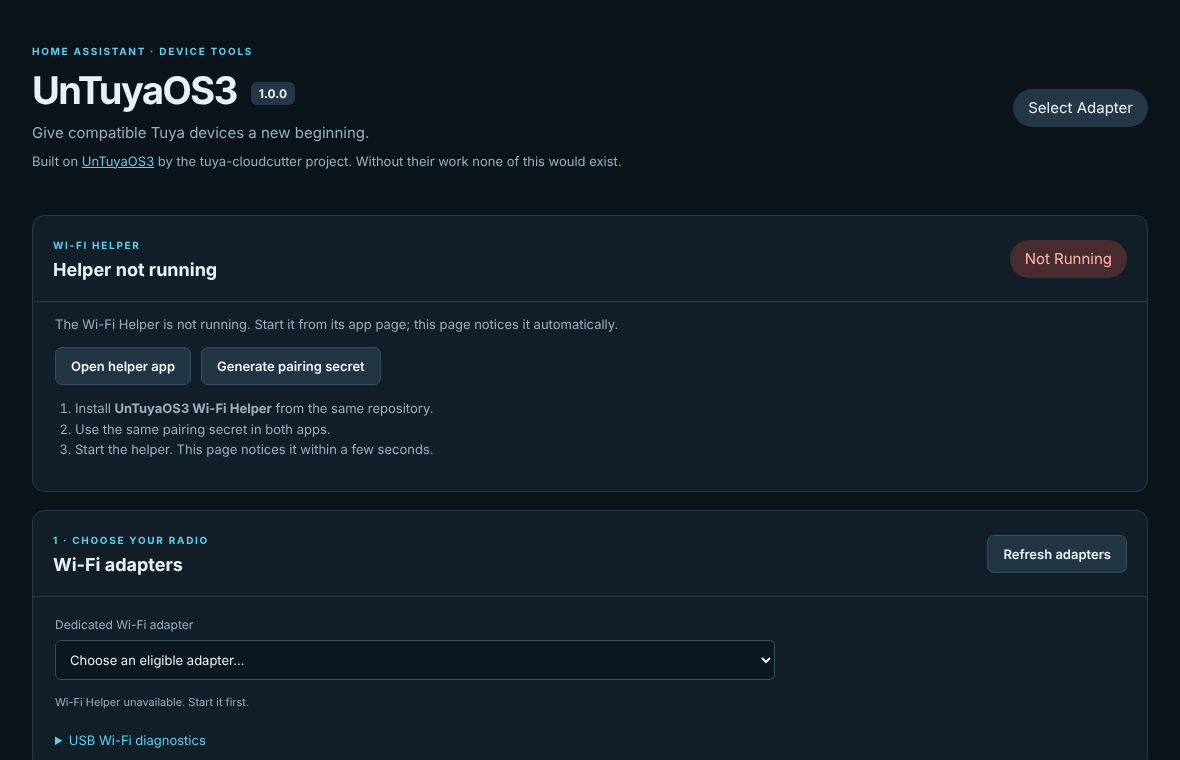
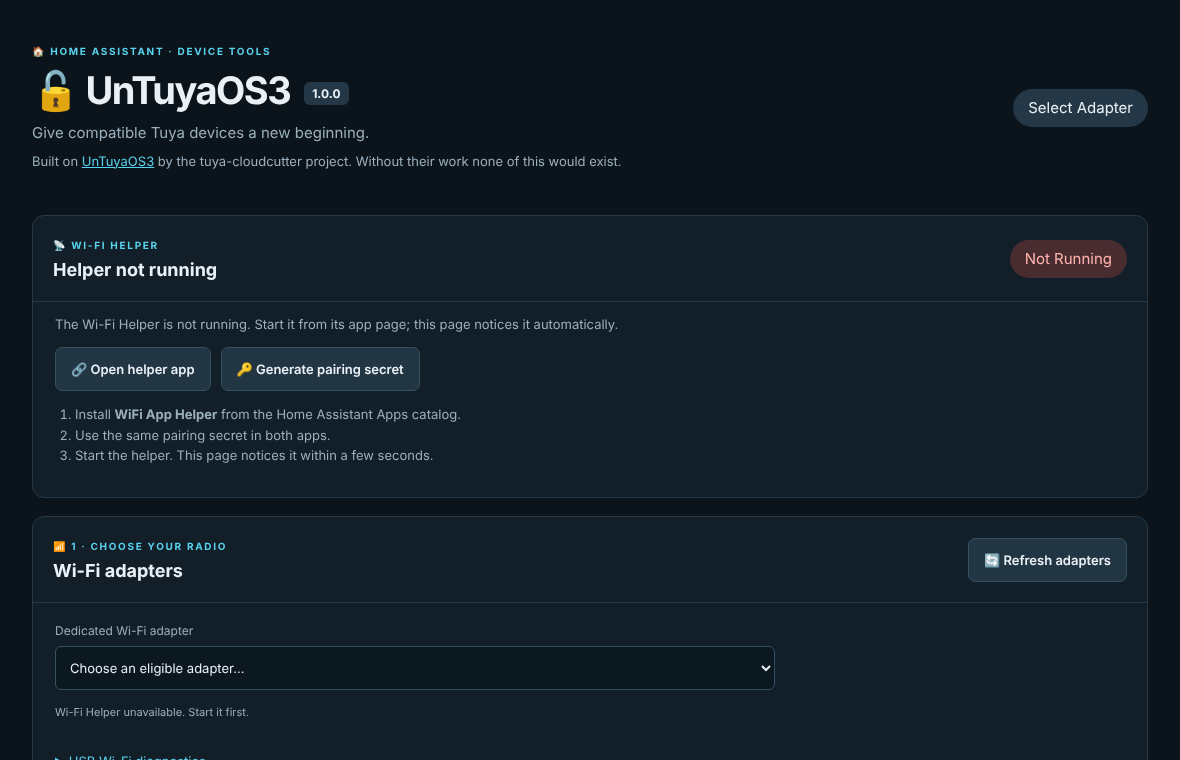
Add fitting emojis to the Web UI and documentation
- Section labels, action buttons and footer links in the Web UI get a
  small, consistent emoji each (radio, risk, session, logs, community
  report, ...), for quicker visual scanning. No text, id or behavior
  changes.
- Same treatment for the README (English and German), the app store
  summary (untuyaos3/README.md) and the setup/usage guide (DOCS.md).
- Regenerate docs/images/*.png from the updated Web UI.
- Bump to 1.0.5 with a CHANGELOG entry.

Verified: tools/sync_project.py --check, the full Python test suite
(90 tests) and tests/test_webui.cjs all pass.

diff --git a/untuyaos3/app/static/index.html b/untuyaos3/app/static/index.html
@@ -7,63 +7,63 @@
 <title>UnTuyaOS3</title><link rel="stylesheet" href="style.css"><script src="app.js" defer></script>
 </head>
 <body>
-<header><div><span class="eyebrow">HOME ASSISTANT · DEVICE TOOLS</span><h1>UnTuyaOS3<span class="version">__VERSION__</span></h1>
+<header><div><span class="eyebrow">🏠 HOME ASSISTANT · DEVICE TOOLS</span><h1>🔓 UnTuyaOS3<span class="version">__VERSION__</span></h1>
 <p>Give compatible Tuya devices a new beginning.</p>
 <p class="credit">Built on <a href="__UPSTREAM_URL__" target="_blank" rel="noopener noreferrer">UnTuyaOS3</a> by the tuya-cloudcutter project. Without their work none of this would exist.</p></div><span id="state" class="badge">Connecting…</span></header>
 <main>
-<section id="helper-card" class="card helper-card"><div class="section-heading"><div><span class="eyebrow">WI-FI HELPER</span><h2 id="helper-title">Looking for the helper…</h2></div>
+<section id="helper-card" class="card helper-card"><div class="section-heading"><div><span class="eyebrow">📡 WI-FI HELPER</span><h2 id="helper-title">Looking for the helper…</h2></div>
 <span id="helper-pill" class="badge">checking</span></div>
 <div id="helper-body" class="helper-body"><p id="helper-message">Looking for the Wi-Fi Helper…</p>
-<div class="helper-actions"><a id="helper-open" class="button secondary" href="__HELPER_URL__" target="_blank" rel="noopener noreferrer">Open helper app</a>
-<button id="secret-generate" class="secondary" type="button">Generate pairing secret</button></div>
+<div class="helper-actions"><a id="helper-open" class="button secondary" href="__HELPER_URL__" target="_blank" rel="noopener noreferrer">🔗 Open helper app</a>
+<button id="secret-generate" class="secondary" type="button">🔑 Generate pairing secret</button></div>
 <div id="secret-box" class="secret-box" hidden><code id="secret-value"></code><button id="secret-copy" class="secondary" type="button">Copy</button>
 <p class="hint">Paste this exact value into the Configuration tab of <strong>both</strong> apps, save, then restart them. It is only shown here and never stored.</p></div>
 <ol id="helper-steps" class="steps"><li>Install <strong>WiFi App Helper</strong> from the Home Assistant Apps catalog.</li><li>Use the same pairing secret in both apps.</li><li>Start the helper. This page notices it within a few seconds.</li></ol></div></section>
-<section class="card adapter-card"><div class="section-heading"><div><span class="eyebrow">1 · CHOOSE YOUR RADIO</span><h2>Wi-Fi adapters</h2></div>
-<button id="refresh-adapters" class="secondary">Refresh adapters</button></div>
+<section class="card adapter-card"><div class="section-heading"><div><span class="eyebrow">📶 1 · CHOOSE YOUR RADIO</span><h2>Wi-Fi adapters</h2></div>
+<button id="refresh-adapters" class="secondary">🔄 Refresh adapters</button></div>
 <div class="adapter-settings"><label for="adapter-select">Dedicated Wi-Fi adapter</label><select id="adapter-select" disabled><option value="">Discovering adapters…</option></select>
 <p id="adapter-help" class="hint">One eligible adapter is selected automatically. The host connection stays under Home Assistant's control.</p>
 <ul id="adapter-reasons" class="diagnostic-list"></ul>
 <details><summary>USB Wi-Fi diagnostics</summary><ul id="usb-devices" class="diagnostic-list"></ul>
 <p id="host-drivers" class="hint"></p>
 <p class="hint">USB detection and a usable Wi-Fi interface are separate checks. If a USB adapter has no Wi-Fi interface, check its port, firmware and driver in Home Assistant's host logs.</p></details></div></section>
-<section class="card preparation-card"><div class="section-heading"><div><span class="eyebrow">2 · PREPARE THE DEVICE</span><h2>Before starting</h2></div></div>
+<section class="card preparation-card"><div class="section-heading"><div><span class="eyebrow">🧰 2 · PREPARE THE DEVICE</span><h2>Before starting</h2></div></div>
 <div class="preparation-body"><p>Put your device into AP pairing mode. Check its chip and firmware compatibility. Keep its power connected throughout the transfer.</p>
 <p><a id="open-firmware" href="#firmware-library">Optional: upload your device's UG firmware first</a>. Bundled images are already in the script's menu.</p>
 <label class="risk-check" for="risk-ack"><input id="risk-ack" type="checkbox"><span>I understand that flashing can permanently brick this device. I have checked the target and firmware and accept the risk.</span></label>
 <p class="hint">Kickstart starts a setup Wi-Fi network; it does not configure your lamp or other outputs automatically.</p></div></section>
-<section id="session-controls" class="toolbar card"><div><span class="eyebrow">3 · RUN ONE SESSION</span><h2>Dedicated Wi-Fi</h2><p id="adapter">Checking adapter…</p>
+<section id="session-controls" class="toolbar card"><div><span class="eyebrow">▶ 3 · RUN ONE SESSION</span><h2>Dedicated Wi-Fi</h2><p id="adapter">Checking adapter…</p>
 <p id="start-help" class="hint">Choose an adapter and acknowledge the flashing risk above.</p></div>
-<div class="actions"><button id="start" disabled>Start interactive session</button><button id="cancel" class="danger" disabled>Stop session</button>
-<a class="button secondary" href="api/logs" download="untuyaos3-logs.zip">Download logs</a></div></section>
+<div class="actions"><button id="start" disabled>🚀 Start interactive session</button><button id="cancel" class="danger" disabled>⏹ Stop session</button>
+<a class="button secondary" href="api/logs" download="untuyaos3-logs.zip">📥 Download logs</a></div></section>
 <div id="notice" class="notice" role="status" aria-live="polite">Reading live status…</div>
 <div class="workspace">
-<section class="card terminal-card"><div class="section-heading"><div><span class="eyebrow">INTERACTIVE SESSION</span><h2>UnTuyaOS3 console</h2></div><span class="live">● LIVE</span></div>
+<section class="card terminal-card"><div class="section-heading"><div><span class="eyebrow">🖥 INTERACTIVE SESSION</span><h2>UnTuyaOS3 console</h2></div><span class="live">● LIVE</span></div>
 <pre id="terminal" tabindex="0" aria-label="UnTuyaOS3 console output"></pre>
 <form id="choice-form"><label for="choice">Menu choice</label><input id="choice" inputmode="numeric" pattern="[0-9]{1,5}" maxlength="5" placeholder="e.g. 1" autocomplete="off" required disabled>
 <button id="send" disabled>Submit choice ↵</button></form>
 <p class="hint">Answer the numbered prompts above. Your session continues when you close this page.</p></section>
-<section class="card log-card"><div class="section-heading"><div><span class="eyebrow">ALWAYS VISIBLE</span><h2>Activity & diagnostics</h2></div>
-<div class="log-actions"><label class="follow"><input id="follow" type="checkbox" checked> Follow</label><button id="clear-logs" class="secondary">Clear logs</button></div></div>
+<section class="card log-card"><div class="section-heading"><div><span class="eyebrow">📋 ALWAYS VISIBLE</span><h2>Activity & diagnostics</h2></div>
+<div class="log-actions"><label class="follow"><input id="follow" type="checkbox" checked> Follow</label><button id="clear-logs" class="secondary">🧹 Clear logs</button></div></div>
 <pre id="logs" tabindex="0" aria-label="Live diagnostic log"></pre><p class="hint">Logs start fresh when the app starts. Clear logs deletes saved logs and clears both panels; an active session continues. Retention is limited to 6 MiB.</p></section>
 </div>
-<details id="firmware-library" class="card firmware-card"><summary>Optional · Firmware library — upload a UG image</summary><div><h2>Bring your own UG image</h2>
+<details id="firmware-library" class="card firmware-card"><summary>📦 Optional · Firmware library — upload a UG image</summary><div><h2>Bring your own UG image</h2>
 <p>Bundled firmware is already available in the script's menu. Additional images stay in this app's private storage.</p>
 <p>Own a device from Action (LSC Smart, Battletron, Eurodomest)? There are <a href="https://gitea.seb5594.xyz/seb5594/Action_Battleton_Eurodomest_LSC-Smart-Custom-Firmware-Collection" target="_blank" rel="noopener noreferrer">prebuilt custom ESPHome firmwares</a> for several of them.</p></div>
 <form id="firmware-form"><label>Platform<select id="platform"><option>T1</option><option>BK7231N</option><option>RTL8720CF</option></select></label>
-<label>UG firmware (.bin)<input id="firmware" type="file" accept=".bin" required></label><button id="upload" class="secondary">Upload firmware</button></form>
+<label>UG firmware (.bin)<input id="firmware" type="file" accept=".bin" required></label><button id="upload" class="secondary">⬆ Upload firmware</button></form>
 <p id="library" class="hint"></p><a href="#session-controls">Return to session controls ↑</a></details>
-<section class="card report-card"><div><span class="eyebrow">HELP THE COMMUNITY</span><h2>Tried a device? Tell us how it went</h2>
+<section class="card report-card"><div><span class="eyebrow">💬 HELP THE COMMUNITY</span><h2>Tried a device? Tell us how it went</h2>
 <p>Every report, successful or not, helps others decide what is worth trying. The form opens on GitHub with your app version and Wi-Fi adapter already filled in. Please leave out keys, UUIDs and full logs.</p></div>
-<a id="report" class="button secondary" href="__REPORT_URL__" target="_blank" rel="noopener noreferrer">Report a device</a></section>
-<p class="caution">Flashing replaces device firmware and may make a device unusable. Use a compatible device and the correct UG image. Put the device into AP pairing mode before starting. Keep power connected during flashing.</p>
+<a id="report" class="button secondary" href="__REPORT_URL__" target="_blank" rel="noopener noreferrer">📝 Report a device</a></section>
+<p class="caution">⚠ Flashing replaces device firmware and may make a device unusable. Use a compatible device and the correct UG image. Put the device into AP pairing mode before starting. Keep power connected during flashing.</p>
 </main><footer>Isolated radio · Home Assistant Ingress · Full verbose output<br>
 Powered by <a href="__UPSTREAM_URL__" target="_blank" rel="noopener noreferrer">UnTuyaOS3</a> (revision <a href="__UPSTREAM_COMMIT_URL__" target="_blank" rel="noopener noreferrer">__UPSTREAM_REVISION__</a>), exploit research by
 <a href="https://github.com/kuba2k2" target="_blank" rel="noopener noreferrer">kuba2k2</a> and <a href="https://github.com/libretiny-eu/libretiny" target="_blank" rel="noopener noreferrer">LibreTiny</a>.
 Not affiliated with Tuya. This app: <a href="__REPOSITORY_URL__" target="_blank" rel="noopener noreferrer">GitHub</a>
 <a class="developer-credit" href="__REPOSITORY_URL__" target="_blank" rel="noopener noreferrer">Application developed by seb5594 (Sebastian Schmidt) - Made with <span class="credit-heart">♥</span> in Germany</a>
 <div class="footer-actions">
-<a class="support-link" href="https://github.com/seb5594/Home-Assistant-Apps" target="_blank" rel="noopener noreferrer">More Home Assistant Apps</a>
+<a class="support-link" href="https://github.com/seb5594/Home-Assistant-Apps" target="_blank" rel="noopener noreferrer">🏠 More Home Assistant Apps</a>
 <a class="support-link" href="https://paypal.me/seb5594" target="_blank" rel="noopener noreferrer">Support my work ☕</a>
 </div></footer>
 </body></html>

diff --git a/README.de.md b/README.de.md
@@ -25,7 +25,7 @@
 >
 > Eine meiner eigenen Lampen war nach dem Flashen dunkel. Sie lief mit Kickstart, aber ich habe das nur gemerkt, weil ich nach ihrem WLAN gesucht habe. [Die ganze Geschichte](docs/table-lamp-3225458.md) (englisch) solltest du vor dem Start lesen.
 
-## Was ist das?
+## 🤔 Was ist das?
 
 
 Viele günstige Smart-Home-Geräte (zum Beispiel die LSC-Lampen, LED-Streifen und Steckdosenleisten von Action) sprechen nur mit der Tuya-Cloud. [UnTuyaOS3](https://github.com/tuya-cloudcutter/UnTuyaOS3) kann auf **manche** davon per WLAN eine offene Firmware aufspielen, ohne das Gehäuse zu öffnen, sofern ihre Firmware vom Exploit betroffen ist.
@@ -38,7 +38,7 @@ Ich baue sowas in meiner Freizeit, weil ich meine Geräte gern cloudfrei habe. A
 
 > **Ehre, wem Ehre gebührt.** Der Exploit, die Protokollarbeit, die Skripte und die mitgelieferte Firmware stammen von der [tuya-cloudcutter](https://github.com/tuya-cloudcutter)-Community. UnTuyaOS3 ist deren Projekt, den ursprünglichen Exploit hat [kuba2k2](https://github.com/kuba2k2) von [LibreTiny](https://github.com/libretiny-eu/libretiny) gefunden. Ich habe es nur für Home Assistant verpackt: Web-Oberfläche, isolierte WLAN-Behandlung, Logs, Uploads. Ohne deren Arbeit gäbe es nichts davon. Gebt ihrem Repository bitte einen Stern.
 
-## Was bisher geklappt hat
+## ✅ Was bisher geklappt hat
 
 Das sind meine eigenen Geräte, jeweils mit einer Firmware-Version. Details und die WLAN-Adapter stehen in der [Kompatibilitätsliste](docs/compatibility.md).
 
@@ -51,18 +51,18 @@ Das sind meine eigenen Geräte, jeweils mit einer Firmware-Version. Details und 
 
 Ein Flash besteht aus mehreren Stufen, die jede für sich scheitern können: Exploit akzeptiert, Übertragung komplett, Gerät bestätigt, neue Firmware bootet, Ausgänge funktionieren. Die Liste hält sie auseinander. Kickstart ist nur eine allgemeine Setup-Firmware und kennt die Pins deiner Lampe erst, wenn du sie konfigurierst.
 
-## Fertige Firmware für Action-Geräte
+## 🧰 Fertige Firmware für Action-Geräte
 
 Das Flashen ist nur die halbe Miete: Danach braucht das Gerät eine Firmware, die seine Pins kennt. Für Geräte vom Discounter Action (Marken LSC Smart, Battletron und Eurodomest) habe ich eine [Sammlung vorgebauter ESPHome-Firmware](https://gitea.seb5594.xyz/seb5594/Action_Battleton_Eurodomest_LSC-Smart-Custom-Firmware-Collection) zusammengestellt und auf meinem eigenen Gitea abgelegt. Lade dir dort das Image für dein Gerät herunter, lade es in der Firmware-Bibliothek der Web-Oberfläche als UG-Image hoch und flashe es. Gilt nur für Geräte von Action. Es gilt wie immer: Prüfe, ob Gerät und Firmware-Version passen, und rechne damit, das Gerät zu riskieren.
 
-## Was du brauchst
+## 🧾 Was du brauchst
 
 - Home Assistant OS (oder Supervised) auf **amd64 oder aarch64**.
 - Home Assistant per **Ethernet** angebunden. Der Adapter zum Flashen wird dem Host kurzzeitig weggenommen, also darf es nicht der sein, über den HA selbst läuft.
 - Einen übrigen **WLAN-Adapter mit AP-Modus**. Ein USB-Stick ist am einfachsten. Ich nutze einen Atheros AR9271 (`0cf3:9271`).
 - Das Gerät, das du flashen willst, in Reichweite, und Geduld.
 
-### Welche WLAN-Adapter könnten gehen?
+### 📡 Welche WLAN-Adapter könnten gehen?
 
 Die App kann nur nutzen, was der HAOS-Kernel mitbringt. Das sind die WLAN-Treiber, die HAOS für USB und SDIO baut (Stand 28. Oktober 2026, Kernel 6.18):
 
@@ -76,7 +76,7 @@ Die App kann nur nutzen, was der HAOS-Kernel mitbringt. Das sind die WLAN-Treibe
 
 Eingebautes PCIe-WLAN ist ebenfalls abgedeckt (Intel `iwlwifi`, Atheros, MediaTek, Realtek, ...). Aufgelistet heißt **nicht** getestet. Bisher hat nur der AR9271 etwas geflasht. Das interne Realtek RTL8822CE verbindet sich zwar, hatte aber oft zu wenig Signal. AP-Modus und die Übergabe in den Namespace hängen vom Treiber ab, die App prüft beides, bevor sie irgendetwas anfasst. Die vollständige Liste mit typischen Chips steht in [docs/wifi-compatibility.md](docs/wifi-compatibility.md) (englisch). Dein Adapter fehlt in der Testliste? Dann [melde ihn](#hilf-bei-der-kompatibilitätsliste).
 
-## Installation
+## 📦 Installation
 
 1. In Home Assistant **Einstellungen → Apps → App-Store** öffnen, dann **⋮ → Repositories** und `https://github.com/seb5594/Home-Assistant-UnTuyaOS3-App` hinzufügen. (Ältere Versionen nennen das *Add-ons*.)
 2. **Beide** Apps installieren: **UnTuyaOS3** und den separaten **[WiFi App Helper](https://github.com/seb5594/Home-Assistant-WiFi-Helper-App)** aus dem Hauptkatalog. Zwei Apps sind Absicht, [hier steht warum](docs/architecture.md#why-two-apps) (englisch).
@@ -87,7 +87,7 @@ Die Oberfläche beginnt mit einer Karte *Wi-Fi Helper*, die dir sagt, was fehlt:
 
 Beide Apps starten absichtlich nur manuell. Bitte keinen Watchdog einrichten, der sie mitten im Flashen neu startet. Aktualisiere beide Apps gemeinsam.
 
-## Ein Gerät flashen
+## 🔥 Ein Gerät flashen
 
 1. Das Gerät in den AP-Kopplungsmodus versetzen, meist erkennbar am langsamen Blinken.
 2. In der Web-Oberfläche **Start interactive session** drücken.
@@ -100,7 +100,7 @@ Das Schließen des Browsers bricht die Sitzung nicht ab, beim Wiederkommen wird 
 
 *Unconfirmed* heißt: Alle Bytes wurden gesendet, aber das Gerät hat nie „fertig“ gemeldet. Such nach einem Kickstart-WLAN, bevor du irgendetwas anderes probierst.
 
-## Wenn etwas nicht klappt
+## 🛠 Wenn etwas nicht klappt
 
 - **Kein Adapter in der Liste.** Der Grund steht unter dem Dropdown. Typisch: verbunden, in Benutzung, blockiert oder kein AP-Modus.
 - **USB-Stick am Bus, aber keine Schnittstelle.** Es fehlt der Host-Treiber oder dessen Firmware. Direkt am Rechner einstecken, *Refresh adapters* drücken, im Host-Log von Home Assistant nach `ath9k_htc` oder Firmware-Fehlern schauen. Die Apps können keine Treiber installieren.
@@ -108,19 +108,19 @@ Das Schließen des Browsers bricht die Sitzung nicht ab, beim Wiederkommen wird 
 - **Gerät antwortet `0x0C` statt `0x16`.** WLAN und DHCP sind in Ordnung, aber diese Firmware spricht nicht das erwartete Protokoll. Die App hält absichtlich an. Prüfe die Firmware-Version im [Kompatibilitäts-Wiki](https://github.com/tuya-cloudcutter/UnTuyaOS3/wiki/Device-Compatibility) des Originalprojekts.
 - **Alles andere.** Lies den *Log*-Tab beider Apps und schau in [How it works](docs/how-it-works.md) (englisch).
 
-## Hilf bei der Kompatibilitätsliste
+## 📈 Hilf bei der Kompatibilitätsliste
 
 Welche Geräte, Chips und Adapter funktionieren, weiß man nur, weil Leute es ausprobieren. Wenn du etwas geflasht hast (oder daran gescheitert bist), sag es mir. Der Button **Report a device** unten in der Web-Oberfläche öffnet ein Formular, in dem App-Version und Adapter schon eingetragen sind. Du kannst das [Formular auch direkt öffnen](https://github.com/seb5594/Home-Assistant-UnTuyaOS3-App/issues/new?template=device-report.yml). Fehlschläge sind genauso nützlich wie Erfolge. Bitte lass Schlüssel, UUIDs und Geräte-IDs weg, das Issue ist öffentlich.
 
-## Sicherheit in Kürze
+## 🔒 Sicherheit in Kürze
 
 Die Haupt-App mit Web-Oberfläche und den Upstream-Skripten läuft in einem isolierten Netzwerk-Namespace und sieht nur die eine Funkeinheit, die sie bekommen hat. Der Helper ist der einzige Teil im Host-Netzwerk. Er hat keinen Webserver und dient nur dazu, Funkeinheiten hinein- und herauszubewegen. Beide sprechen über einen lokalen Socket, nachdem sie bewiesen haben, dass sie dasselbe Geheimnis kennen. Nichts davon hat Zugriff auf deine Home-Assistant-Konfiguration, den Docker-Socket oder die Supervisor-API. Die Einzelheiten, auch was der Helper trotzdem kann, stehen in [docs/architecture.md](docs/architecture.md) (englisch). AppArmor bitte nicht deaktivieren.
 
-## Am Original dranbleiben
+## 🔄 Am Original dranbleiben
 
 Gepinnte Upstream-Revision: [`2111458`](https://github.com/tuya-cloudcutter/UnTuyaOS3/commit/2111458225c269ddddf5353bf09a1e8f1096d959), also das Release v1.0.1 des Originalprojekts. Ein Workflow prüft täglich, ob UnTuyaOS3 etwas Neueres veröffentlicht hat, und öffnet dann einen Pull Request gegen `dev`. Veröffentlicht wird erst, wenn ich den Diff gelesen und getestet habe.
 
-## Mehr Dokumentation (englisch)
+## 📚 Mehr Dokumentation (englisch)
 
 - [How it works](docs/how-it-works.md): Adapter-Prüfung, WLAN-Verbindung, Firmware-Bibliothek, Logs und Wiederherstellung
 - [Architecture](docs/architecture.md): warum zwei Apps, Berechtigungen, Aufbau des Quellcodes
@@ -131,17 +131,17 @@ Gepinnte Upstream-Revision: [`2111458`](https://github.com/tuya-cloudcutter/UnTu
 
 Kein offizielles Home-Assistant- oder Tuya-Produkt. Tuya ist eine Marke ihres Inhabers. Icon und Logo hier sind meine eigene Grafik, nur das Orange ist eine Verbeugung vor der Marke. Die Upstream-Software und -Firmware behalten ihre eigenen Lizenzen.
 
-## Unterstützung
+## ☕ Unterstützung
 
 Alle meine Projekte entstehen in meiner Freizeit, aus Spaß an der Sache. Trotzdem stecken viel Zeit und Sorgfalt drin. Wenn dir meine Arbeit geholfen hat, freue ich mich über einen heißen Kaffee für die nächste schlaflose Nacht.
 
 [![PayPal](https://img.shields.io/static/v1?label=Support&message=PayPal&color=0070BA&logo=paypal&logoColor=white&style=for-the-badge)](https://paypal.me/seb5594) [![Buy me a beer](https://raw.githubusercontent.com/seb5594/Home-Assistant-Apps/473dc258f963096745aac327df54950eb9b59066/.github/assets/support-beer.svg)](https://buymeacoffee.com/seb5594)
 
-## Lizenz
+## ⚖ Lizenz
 
 [MIT](LICENSE).
 
-## Eigenständige Repositories und Rückkehr zu 1.0.0
+## 🚚 Eigenständige Repositories und Rückkehr zu 1.0.0
 
 Diese Repository enthält wieder ausschließlich **UnTuyaOS3**, aktuell Version **1.0.1**. Der allgemeine [WiFi App Helper](https://github.com/seb5594/Home-Assistant-WiFi-Helper-App) und [Tuya Breaker](https://github.com/seb5594/Home-Assistant-Tuya-Breaker-App) haben eigene Repositories und unabhängige Versionen. Beide Apps aus dem [Hauptkatalog](https://github.com/seb5594/Home-Assistant-Apps) installieren. Der Helper besitzt die neue Kennung `wifi_helper` und ein allgemein benanntes privates Socket-Verzeichnis.
 
@@ -149,7 +149,7 @@ Vor dem Umzug alle Sitzungen beenden und die erfolgreiche Adapter-Rückgabe im a
 
 Home Assistant führt kein automatisches Downgrade von 1.2 Beta auf 1.0.1 durch. Konfiguration und private Firmware-Bibliothek mit der Backup-Oberfläche sichern und die eigenständige App bei Bedarf im App-Store neu installieren bzw. neu erstellen. Dasselbe private Kopplungsgeheimnis übernehmen. Keine Host-Befehle nötig. Der historische Git-Tag `v1.0.0` und dessen Release-Dateien bleiben erhalten; der aktuelle `dev`-Stand und der Katalog enthalten die neue Einzel-App-Struktur.
 
-## App-Store zeigt noch den alten Helper oder Versionsstand
+## 🗂 App-Store zeigt noch den alten Helper oder Versionsstand
 
 Bestehende Home-Assistant-Checkouts verfolgen weiterhin den ursprünglich geklonten Branch. Der bisherige Branch `main` wird deshalb nach getesteten, veröffentlichten `dev`-Releases ohne Umschreiben der Historie nachgezogen. Danach im Menü des App-Stores nach Updates suchen. Das Löschen von GitHub-Container-Packages aktualisiert den Store-Katalog nicht. WiFi App Helper und Tuya Breaker über den Hauptkatalog installieren. Ein bereits installierter alter Helper kann separat erhalten bleiben: Erst alle Sitzungen beenden, Adapter-Rückgabe prüfen und ein Backup erstellen, dann die alte Installation entfernen. Bei ausstehender Wiederherstellung keine Recovery-Daten löschen.
 

diff --git a/README.md b/README.md
@@ -36,7 +36,7 @@
 >
 > One of my own lamps went dark after a flash. It was running Kickstart, but I only found out because I went looking for its Wi-Fi. [The full story](docs/table-lamp-3225458.md) is worth reading before you start.
 
-## What is this?
+## 🤔 What is this?
 
 This repository contains only the **UnTuyaOS3** main app, version **1.0.2**. Its companion is now the independent [WiFi App Helper](https://github.com/seb5594/Home-Assistant-WiFi-Helper-App). For the combined CloudCutter/Lightleak workspace, see [Tuya Breaker](https://github.com/seb5594/Home-Assistant-Tuya-Breaker-App).
 
@@ -50,7 +50,7 @@ I build things like this in my spare time because I like my gadgets cloud-free. 
 
 > **Credit where it is due.** The exploit, the protocol work, the scripts and the bundled firmware come from the [tuya-cloudcutter](https://github.com/tuya-cloudcutter) community. UnTuyaOS3 is their project, and the original exploit was found by [kuba2k2](https://github.com/kuba2k2) of [LibreTiny](https://github.com/libretiny-eu/libretiny). All I did is wrap it for Home Assistant: web UI, isolated Wi-Fi handling, logs, uploads. Without their work none of this would exist, so please go and star their repository.
 
-## What has worked so far
+## ✅ What has worked so far
 
 These are my own devices, each with one firmware version. Details and the Wi-Fi adapters are in the [compatibility list](docs/compatibility.md).
 
@@ -63,18 +63,18 @@ These are my own devices, each with one firmware version. Details and the Wi-Fi 
 
 A flash has several stages that can each go wrong: exploit accepted, transfer complete, device confirms, new firmware boots, outputs work. The list keeps them apart. Kickstart is only a generic setup firmware, it does not know your lamp's pins until you configure it.
 
-## Ready-made firmware for Action devices
+## 🧰 Ready-made firmware for Action devices
 
 Flashing is only half the job: afterwards the device needs a firmware that knows its pins. For devices sold by the discounter Action (brands LSC Smart, Battletron and Eurodomest) I have built a [collection of prebuilt ESPHome firmware](https://gitea.seb5594.xyz/seb5594/Action_Battleton_Eurodomest_LSC-Smart-Custom-Firmware-Collection) and put it on my own Gitea. Download the image for your device there, upload it as a UG image in the Web UI's firmware library and flash it. It is only for devices from Action. Same warning as always: check that the device and firmware version match, and expect to risk the device.
 
-## What you need
+## 🧾 What you need
 
 - Home Assistant OS (or a Supervised install) on **amd64 or aarch64**.
 - Home Assistant connected over **Ethernet**. The adapter used for flashing is borrowed from the host for a while, so it must not be the one HA itself relies on.
 - A spare **Wi-Fi adapter with AP mode**. A USB stick is the easiest choice. The one I use is an Atheros AR9271 (`0cf3:9271`).
 - A device you want to flash, within reach, and patience.
 
-### Which Wi-Fi adapters might work?
+### 📡 Which Wi-Fi adapters might work?
 
 The app can only use what the HAOS kernel ships. These are the Wi-Fi drivers HAOS builds for USB and SDIO (checked 28 October 2026, kernel 6.18):
 
@@ -88,7 +88,7 @@ The app can only use what the HAOS kernel ships. These are the Wi-Fi drivers HAO
 
 Built-in PCIe Wi-Fi is covered too (Intel `iwlwifi`, Atheros, MediaTek, Realtek, ...). Listed does **not** mean tested. So far only the AR9271 has flashed anything; the internal Realtek RTL8822CE connects, but its signal was often too weak. AP mode and the namespace handover depend on the driver, and the app checks both before it touches anything. The whole list with typical chips is in [docs/wifi-compatibility.md](docs/wifi-compatibility.md). Your adapter is not on the tested list? Please [report it](#help-grow-the-compatibility-list).
 
-## Install
+## 📦 Install
 
 1. In Home Assistant open **Settings → Apps → App store**, then **⋮ → Repositories** and add `https://github.com/seb5594/Home-Assistant-UnTuyaOS3-App`. (Older versions call these *Add-ons*.)
 2. Install **UnTuyaOS3** and the separate **[WiFi App Helper](https://github.com/seb5594/Home-Assistant-WiFi-Helper-App)** from the [main catalog](https://github.com/seb5594/Home-Assistant-Apps). They are two apps on purpose, [here is why](docs/architecture.md#why-two-apps).
@@ -99,7 +99,7 @@ The Web UI starts with a *Wi-Fi Helper* card that tells you what is missing: hel
 
 Both apps start manually, on purpose. Please do not add a watchdog that restarts them while a flash is running. Use compatible helper API versions; app release numbers are independent.
 
-## Flashing a device
+## 🔥 Flashing a device
 
 1. Put the device into AP pairing mode. Usually that means a slow blink.
 2. Press **Start interactive session** in the Web UI.
@@ -112,7 +112,7 @@ Closing the browser does not cancel the session. When you come back the recent o
 
 *Unconfirmed* means every byte went out but the device never said it was done. Look for a Kickstart Wi-Fi network before you try anything else.
 
-## When something does not work
+## 🛠 When something does not work
 
 - **No adapter in the list.** The reason is printed under the dropdown. Typical ones: it is connected, in use, blocked, or has no AP mode.
 - **USB stick on the bus but no interface.** The host driver or its firmware is missing. Plug it straight into the machine, press *Refresh adapters*, check Home Assistant's host log for `ath9k_htc` or firmware errors. The apps cannot install drivers.
@@ -120,19 +120,19 @@ Closing the browser does not cancel the session. When you come back the recent o
 - **Device answers `0x0C` instead of `0x16`.** Wi-Fi and DHCP are fine, but this firmware does not speak the expected protocol. The app stops on purpose. Check the firmware version against upstream's [compatibility wiki](https://github.com/tuya-cloudcutter/UnTuyaOS3/wiki/Device-Compatibility).
 - **Anything else.** Read the *Log* tab of both apps, and have a look at [how it works](docs/how-it-works.md).
 
-## Help grow the compatibility list
+## 📈 Help grow the compatibility list
 
 Which devices, chips and adapters work is only known because people try them. If you flashed (or failed to flash) something, tell me. The **Report a device** button at the bottom of the Web UI opens a form with your app version and adapter already filled in. You can also [open the form directly](https://github.com/seb5594/Home-Assistant-UnTuyaOS3-App/issues/new?template=device-report.yml). Failures are as useful as successes. Please leave keys, UUIDs and device IDs out, the issue is public.
 
-## Security in short
+## 🔒 Security in short
 
 The main app, with the web UI and the upstream scripts, runs in an isolated network namespace and only sees the one radio it was given. The helper is the only part on the host network. It has no web server and exists to move radios in and out. Both talk over a local socket after proving they share the secret. Nothing here has access to your Home Assistant configuration, the Docker socket or the Supervisor API. The details, including what the helper still can do, are in [docs/architecture.md](docs/architecture.md). Do not disable AppArmor.
 
-## Staying current with upstream
+## 🔄 Staying current with upstream
 
 Pinned upstream revision: [`2111458`](https://github.com/tuya-cloudcutter/UnTuyaOS3/commit/2111458225c269ddddf5353bf09a1e8f1096d959), which is upstream's release v1.0.1. A workflow checks every day whether UnTuyaOS3 published something newer and opens a pull request against `dev`. Nothing is published until I have read the diff and tested it.
 
-## More documentation
+## 📚 More documentation
 
 - [How it works](docs/how-it-works.md): adapter checks, Wi-Fi connection, firmware library, logs and recovery
 - [Architecture](docs/architecture.md): why two apps, permissions, source layout
@@ -143,20 +143,20 @@ Pinned upstream revision: [`2111458`](https://github.com/tuya-cloudcutter/UnTuya
 
 Not an official Home Assistant or Tuya product. Tuya is a trademark of its owner; the icon and logo here are my own artwork, only the orange is a nod to the brand. Upstream software and firmware keep their own licenses.
 
-## Standalone migration and version reset
+## 🚚 Standalone migration and version reset
 
 The former three-app bundle is split into independent repositories. The standalone release line starts at **1.0.0**; the current release is **1.0.1**; the helper and Tuya Breaker use their own versions and retain API protocol 3 compatibility. The new helper has slug `wifi_helper` and a generic private socket directory. Follow its [migration guide](https://github.com/seb5594/Home-Assistant-WiFi-Helper-App/blob/dev/README.md#migration-from-anti-tuya-wifi-helper) and complete recovery with the old helper before removing it.
 
 Home Assistant does not automatically downgrade an installed 1.2 beta to 1.0.1. Back up this app's configuration and private firmware library using Home Assistant's backup UI, then use the App Store to reinstall/rebuild the standalone app when necessary. Keep the same pairing secret. No host terminal is required. The original historical `v1.0.0` Git tag and release assets are preserved; the current `dev` source and catalog contain this standalone layout.
 
-## Store still shows the previous companion or version
+## 🗂 Store still shows the previous companion or version
 
 Existing Home Assistant repository checkouts keep following the branch they originally cloned. The legacy `main` branch is maintained as a fast-forward mirror of tested, published `dev` releases so these installations also receive the standalone app. Refresh the App Store from its menu after a release. GitHub container-package deletion does not refresh the store catalog. Use the main Home Assistant Apps catalog for WiFi App Helper and Tuya Breaker. An already installed old helper may remain listed separately; stop all sessions, verify radio recovery and make a backup before removing that old installation. Never delete recovery data while an adapter lease is pending.
 
 For stale entries in the **main catalog** after the bundle split, follow [App Store checkout repair](https://github.com/seb5594/Home-Assistant-Apps/blob/main/docs/store-refresh.md). Re-adding the exact same catalog URL removes stale submodule checkouts; a normal store reload can leave them behind.
 
 <!-- support:begin (generated, shared text) -->
-## Say thanks
+## ☕ Say thanks
 
 All my projects are built in my spare time, just for the fun of it. Still, they take a lot of time and care, and many of the smart home gadgets I buy end up here because I want to make them cloud-free and smart-home ready. Every bit of support means a lot to me.
 
@@ -166,7 +166,7 @@ If my work helped you or turned out to be useful, show your appreciation with a 
 <!-- support:end -->
 
 <!-- license:begin (generated from the license file) -->
-## License
+## ⚖ License
 
 [![license](https://img.shields.io/static/v1?label=license&message=MIT&color=5B6770&style=flat)](LICENSE)
 

diff --git a/untuyaos3/DOCS.md b/untuyaos3/DOCS.md
@@ -1,10 +1,10 @@
-# UnTuyaOS3
+# 🔓 UnTuyaOS3
 
-> **Flashing can brick your device. Use this at your own risk.** A finished transfer does not promise that the device boots afterwards. Only flash devices you can afford to lose.
+> ⚠ **Flashing can brick your device. Use this at your own risk.** A finished transfer does not promise that the device boots afterwards. Only flash devices you can afford to lose.
 
 This app puts open firmware on **some** Tuya devices over Wi-Fi, using the [UnTuyaOS3](https://github.com/tuya-cloudcutter/UnTuyaOS3) exploit of the tuya-cloudcutter community. The exploit and the scripts are theirs, this app wraps them for Home Assistant. Not every device is affected: check the firmware version against the [compatibility list](https://github.com/seb5594/Home-Assistant-UnTuyaOS3-App/blob/main/docs/compatibility.md) and upstream's wiki first.
 
-## Setup
+## 🧷 Setup
 
 1. Install **WiFi App Helper** from the main Home Assistant Apps catalog. It is a separate app on purpose, because only it may touch the host network.
 2. Enter the **same** pairing secret (at least 32 characters) in the Configuration tab of both apps. The Web UI can generate one for you.
@@ -12,7 +12,7 @@ This app puts open firmware on **some** Tuya devices over Wi-Fi, using the [UnTu
 
 Keep Home Assistant on Ethernet and keep Protection mode and AppArmor on. The adapter you flash with is borrowed from the host and handed back afterwards.
 
-## Using it
+## 🖥 Using it
 
 Choose a Wi-Fi adapter (a single eligible one is picked for you; press **Refresh adapters** after plugging in a USB stick), put the device into AP pairing mode, press **Start interactive session** and answer the script's numbered questions. Console and diagnostics update live, and your session keeps running if you close the page.
 

diff --git a/untuyaos3/README.md b/untuyaos3/README.md
@@ -1,9 +1,9 @@
-# UnTuyaOS3
+# 🔓 UnTuyaOS3
 
 UnTuyaOS3 provides the original interactive UnTuyaOS3 firmware menus in Home Assistant Ingress, with a live terminal and continuously visible diagnostics. It requires the WiFi App Helper and an unused, AP-capable Wi-Fi adapter.
 
-> **Experimental firmware tooling can permanently brick a device. Use at your own risk. No successful transfer guarantees that the device will boot.**
+> ⚠ **Experimental firmware tooling can permanently brick a device. Use at your own risk. No successful transfer guarantees that the device will boot.**
 
-Install this app from the [Home Assistant Apps catalog](https://github.com/seb5594/Home-Assistant-Apps). Read the [setup and usage guide](DOCS.md) and [changelog](CHANGELOG.md) before starting.
+📦 Install this app from the [Home Assistant Apps catalog](https://github.com/seb5594/Home-Assistant-Apps). Read the [setup and usage guide](DOCS.md) and [changelog](CHANGELOG.md) before starting.
 
-Keep Protection mode and AppArmor enabled. Install the helper once, configure the same pairing secret, and run only one main app at a time. Adapter selection and all interactive steps happen in the Web UI.
+🛡 Keep Protection mode and AppArmor enabled. Install the helper once, configure the same pairing secret, and run only one main app at a time. Adapter selection and all interactive steps happen in the Web UI.

diff --git a/untuyaos3/CHANGELOG.md b/untuyaos3/CHANGELOG.md
@@ -1,5 +1,10 @@
 # Changelog
 
+## 1.0.5
+
+- Add a few fitting emojis to the Web UI's section labels, buttons and footer links, and to the
+  READMEs, the app store summary and the setup/usage guide, for quicker visual scanning.
+
 ## 1.0.4
 
 - Update UnTuyaOS3 to v1.0.2 (`14b56c3`). [Upstream changes](https://github.com/tuya-cloudcutter/UnTuyaOS3/compare/2111458...14b56c3).
